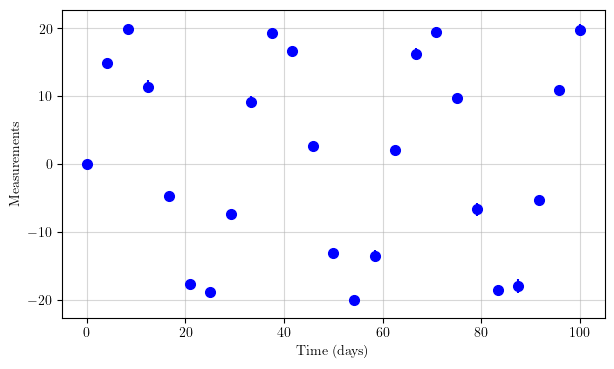
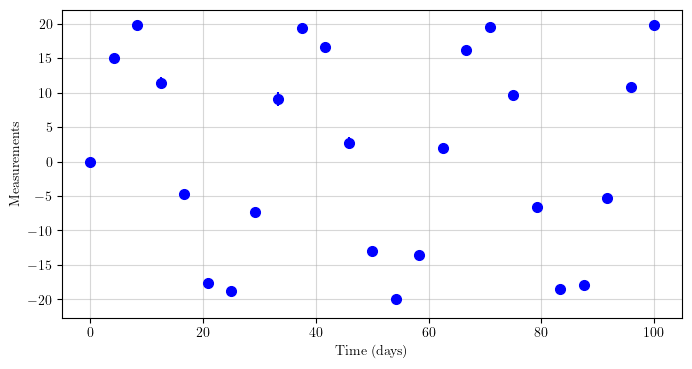
fully working predictive

diff --git a/gpyrn/meanfield.py b/gpyrn/meanfield.py
@@ -583,7 +583,7 @@ class inference(object):
     
     
     def Prediction(self, node, weights, means, jitters, tstar, mu, var,
-                      separate = False, variance=False):
+                   separate = False):
         """
         Prediction for mean-field inference
         
@@ -605,8 +605,7 @@ class inference(object):
             Variational variances
         separate: bool
             True to return nodes and weights predictives separately
-        var: bool
-            True to return variance, otherwise return an array of zeros
+
         Returns
         -------
         predictives: array
@@ -619,45 +618,39 @@ class inference(object):
         meanVal = np.array(np.array_split(meanVal, self.p))
         y = np.concatenate(self.y) - self._mean(means)
         y = np.array(np.array_split(y, self.p))
-        Kf = np.array([self._tinyNuggetKMatrix(i, self.time) +np.diag(np.squeeze(j)) for i,j in zip(node,varF)])
-        Kfstar = np.array([self._predictKMatrix(i, tstar) for i in node])
-        Kw = np.array([self._tinyNuggetKMatrix(i, self.time) +np.diag(np.squeeze(j)) for i,j in zip(weights,varW)])
-        Kwstar = np.array([self._predictKMatrix(j, tstar) for j in weights])
-        final_fstar, final_wstar, predictives = [], [], []
+        weights = np.array(weights).reshape(self.q, self.p)
+        jitt2 = np.array(jitters)**2
+        nPred, nVar = [], []
+        wPred, wVar = [], []
+        for q in range(self.q):
+            gpObj = _gp.GP(self.time, muF[:,q,:])
+            n,nv = gpObj.prediction(node[q], tstar, muF[:,q,:].reshape(self.N), 
+                                    varF[:,q,:].reshape(self.N))
+            nPred.append(n)
+            nVar.append(nv)
+            for p in range(self.p):
+                gpObj = _gp.GP(self.time, muW[p,q,:])
+                w,wv = gpObj.prediction(weights[q,p], tstar, 
+                                        muW[p,q,:].reshape(self.N), 
+                                        varW[p,q,:].reshape(self.N))
+                wPred.append(w)
+                wVar.append(wv)
+        nPred, nVar = np.array(nPred), np.array(nVar)
+        wPredd = np.array(wPred).reshape(self.q, self.p, tstar.size) 
+        wVarr = np.array(wVar).reshape(self.q, self.p, tstar.size) 
+        predictives = np.zeros((tstar.size, self.p))
+        predictivesVar = np.zeros((tstar.size, self.p))
         for p in range(self.p):
-            Kwcho = cholesky(Kw[p,:,:], overwrite_a=True, lower=False)
-            Kwalpha = cho_solve((Kwcho,False), muW[p,:].reshape(-1), 
-                                overwrite_b=False)
-            KwKwMuw = np.squeeze(Kwstar[p,:,:] @Kwalpha)
-            final_wstar.append(np.squeeze(KwKwMuw))
             for q in range(self.q):
-                #will be a problem if self.q>1
-                Kfcho = cholesky(Kf[q,:,:], overwrite_a=True, lower=False)
-                Kfalpha = cho_solve((Kfcho,False), muF[q,:,:].reshape(-1), 
-                                    overwrite_b=False)
-                KfKfMuf = np.squeeze(Kfstar[q,:,:] @Kfalpha)
-                final_fstar.append(np.squeeze(KfKfMuf))
-            predictives.append(KwKwMuw*KfKfMuf + meanVal[p])
+                predictives[:,p] += nPred[q]*wPredd[q,p]
+                predictivesVar[:,p] += wPredd[q,p]*wPredd[q,p]*nVar[q] \
+                                        + wVarr[q,p]*(nVar[q] +nPred[q]*nPred[q]) \
+                                        + jitt2[p]
+
         if separate:
             predictives = np.array(predictives)
-            sepPredictives = np.squeeze(np.array([final_fstar,final_wstar]))
-            return predictives, sepPredictives, tstar
-        if variance:
-            #Will not work for self.q > 1
-            jitt2 = np.array(jitters)**2
-            gpObj = _gp.GP(self.time, muF[0,0,:])
-            n,nv = gpObj.prediction(node[0], tstar, muF[0,0,:], varF[0,0,:])
-            predictivesVar = []
-            for p in range(self.p):
-                gpObj = _gp.GP(self.time, muW[p,0,:])
-                w,wv = gpObj.prediction(weights[q], tstar, muW[p,0,:], varW[p,0,:])
-                EwEwVf = w*w*nv +wv*(nv+ n*n) + jitt2[p]
-                predictivesVar.append(EwEwVf)
-            predictives = np.array(predictives)
-            predictivesVar = np.array(predictivesVar)
-            return predictives, predictivesVar, tstar
-        predictives = np.array(predictives)
-        predictivesVar = np.zeros_like(predictives)
+            sepPredictives = np.array([nPred,wPred], dtype=object)
+            return predictives, predictivesVar, tstar, sepPredictives
         return predictives, predictivesVar, tstar
     
     

diff --git a/gpyrn/Example/example_2.py b/gpyrn/Example/example_2.py
@@ -1,0 +1,84 @@
+import numpy as np
+import matplotlib
+matplotlib.rcParams.update({
+    "pgf.texsystem": "pdflatex",
+    'font.family': 'serif',
+    'text.usetex': True,
+    'pgf.rcfonts': False})
+import matplotlib.pylab as plt
+plt.close('all')
+plt.rcParams['figure.figsize'] = [8, 4]
+from matplotlib.ticker import AutoMinorLocator
+
+from gpyrn import meanfield
+from gpyrn import covfunc, meanfunc
+
+time = np.linspace(0, 100, 25)
+y1 = 20*np.sin(2*np.pi*time / 31)
+y1err = np.random.rand(25)
+
+y2 = 25*np.sin(2*np.pi*time / 31 + 0.5*np.pi)
+y2err = np.random.rand(25)
+
+
+plt.figure()
+plt.errorbar(time, y1, y1err, fmt='ob', markersize=7, label='y1')
+plt.errorbar(time, y2, y2err, fmt='or', markersize=7, label='y2')
+plt.xlabel('Time (days)')
+plt.ylabel('Measurements')
+plt.legend(loc='upper right', facecolor='white', framealpha=1, edgecolor='black')
+plt.grid(which='major', alpha=0.5)
+plt.savefig('data2.png', bbox_inches='tight')
+plt.close('all')
+
+
+
+############## 2 datasets 
+gprn = meanfield.inference(1, time, y1, y1err, y2, y2err)
+
+nodes = [covfunc.Periodic(1, 31, 0.5)]
+weight = [covfunc.SquaredExponential(20, 5), covfunc.SquaredExponential(25, 10)]
+means = [meanfunc.Constant(0), meanfunc.Constant(0)]
+jitter = [0.5, 0.25]
+
+elbo, m, v = gprn.ELBOcalc(nodes, weight, means, jitter, 
+                           iterations=5000, mu='init', var='init')
+print('ELBO =', elbo)
+
+tstar = np.linspace(time.min(), time.max(), 1000)
+
+a, _, _, bb = gprn.Prediction(nodes, weight, means, jitter, tstar, m, v, separate=True)
+
+fig = plt.figure(constrained_layout=True, figsize=(7, 7))
+axs = fig.subplot_mosaic( [['predictive 1', 'weight 1'],
+                           ['predictive 1', 'node'],
+                           ['predictive 2', 'node'],
+                           ['predictive 2', 'weight 2'],],)
+
+axs['predictive 1'].set(xlabel='', ylabel='y1')
+axs['predictive 1'].errorbar(time, y1, y1err, fmt= '.k')
+axs['predictive 1'].plot(tstar, a[:,0].T, '-r')
+axs['predictive 1'].xaxis.set_minor_locator(AutoMinorLocator(5))
+axs['predictive 1'].yaxis.set_minor_locator(AutoMinorLocator(5))
+axs['predictive 1'].grid(which='major', alpha=0.5)
+axs['predictive 1'].grid(which='minor', alpha=0.2)
+
+axs['predictive 2'].set(xlabel='', ylabel='y2')
+axs['predictive 2'].errorbar(time, y2, y2err, fmt= '.k')
+axs['predictive 2'].plot(tstar, a[:,1].T, '-r')
+axs['predictive 2'].xaxis.set_minor_locator(AutoMinorLocator(5))
+axs['predictive 2'].yaxis.set_minor_locator(AutoMinorLocator(5))
+axs['predictive 2'].grid(which='major', alpha=0.5)
+axs['predictive 2'].grid(which='minor', alpha=0.2)
+
+axs['weight 1'].set(xlabel='', ylabel='y1 weight')
+axs['weight 1'].plot(tstar, bb[1][0].T, '-b')
+
+axs['node'].set(xlabel='', ylabel='Node')
+axs['node'].plot(tstar, bb[0].T, '-b')
+
+axs['weight 2'].set(xlabel='', ylabel='y2 weight')
+axs['weight 2'].plot(tstar, bb[1][1].T, '-b')
+
+fig.savefig('componentsPlots.png', bbox_inches='tight')
+# plt.close('all')

diff --git a/gpyrn/Example/example_3.py b/gpyrn/Example/example_3.py
@@ -1,0 +1,44 @@
+import numpy as np
+import matplotlib
+matplotlib.rcParams.update({
+    "pgf.texsystem": "pdflatex",
+    'font.family': 'serif',
+    'text.usetex': True,
+    'pgf.rcfonts': False})
+import matplotlib.pylab as plt
+plt.close('all')
+
+from gprn import meanField as meanfield
+from gprn import covFunction as covfunc
+from gprn import meanFunction as meanfunc
+
+time = np.linspace(0, 100, 25)
+y1 = 20*np.sin(2*np.pi*time / 31)
+y1err = np.random.rand(25)
+
+plt.figure()
+plt.errorbar(time, y1, y1err, fmt='ob', markersize=7, label='y1')
+plt.xlabel('Time (days)')
+plt.ylabel('Measurements')
+plt.legend(loc='upper right', facecolor='white', framealpha=1, edgecolor='black')
+plt.grid(which='major', alpha=0.5)
+# plt.savefig('data2.png', bbox_inches='tight')
+# plt.close('all')
+
+gprn = meanfield.inference(2, time, y1, y1err)
+
+nodes = [covfunc.Periodic(1, 11, 0.5),  covfunc.SquaredExponential(0.1, 10)]
+weight = [covfunc.SquaredExponential(20, 5), covfunc.SquaredExponential(0.1, 1)]
+means = [meanfunc.Constant(0)]
+jitter = [0.5]
+
+elbo, m, v = gprn.ELBOcalc(nodes, weight, means, jitter, iterations=5000, mu='init', var='init')
+print('ELBO =', elbo)
+
+tstar = np.linspace(time.min(), time.max(), 1000)
+a, b, c = gprn.newPrediction(nodes, weight, means, jitter, tstar, m, v)
+# aa, bb, cc = gprn.Prediction(nodes, weight, means, jitter, tstar, m, v, 
+#                               separate=True)
+plt.figure()
+plt.plot(time, y1,'o')
+plt.plot(tstar, a,'-')

diff --git a/gpyrn/Example/untitled1.py b/gpyrn/Example/untitled1.py
@@ -1,0 +1,43 @@
+import numpy as np
+import matplotlib
+matplotlib.rcParams.update({
+    "pgf.texsystem": "pdflatex",
+    'font.family': 'serif',
+    'text.usetex': True,
+    'pgf.rcfonts': False})
+import matplotlib.pylab as plt
+plt.close('all')
+
+from gprn import meanField as meanfield
+from gprn import covFunction as covfunc
+from gprn import meanFunction as meanfunc
+time = np.linspace(0, 100, 25)
+y1 = 20*np.sin(2*np.pi*time / 31)
+y1err = np.random.rand(25)
+
+plt.figure()
+plt.errorbar(time, y1, y1err, fmt='ob', markersize=7, label='y1')
+plt.xlabel('Time (days)')
+plt.ylabel('Measurements')
+plt.legend(loc='upper right', facecolor='white', framealpha=1, edgecolor='black')
+plt.grid(which='major', alpha=0.5)
+# plt.savefig('data2.png', bbox_inches='tight')
+# plt.close('all')
+
+gprn = meanfield.inference(2, time, y1, y1err)
+
+nodes = [covfunc.Periodic(1, 11, 0.5),  covfunc.SquaredExponential(0.1, 10)]
+weight = [covfunc.SquaredExponential(20, 5), covfunc.SquaredExponential(0.1, 1)]
+means = [meanfunc.Constant(0)]
+jitter = [0.5]
+
+elbo, m, v = gprn.ELBOcalc(nodes, weight, means, jitter, iterations=5000, mu='init', var='init')
+print('ELBO =', elbo)
+
+tstar = np.linspace(time.min(), time.max(), 1000)
+a, b, c = gprn.newPrediction(nodes, weight, means, jitter, tstar, m, v)
+# aa, bb, cc = gprn.Prediction(nodes, weight, means, jitter, tstar, m, v, 
+#                               separate=True)
+plt.figure()
+plt.plot(time, y1,'o')
+plt.plot(tstar, a,'-')

diff --git a/gpyrn/Example/example_1.py b/gpyrn/Example/example_1.py
@@ -7,10 +7,11 @@ matplotlib.rcParams.update({
     'pgf.rcfonts': False})
 import matplotlib.pylab as plt
 plt.close('all')
-plt.rcParams['figure.figsize'] = [7, 4]
+plt.rcParams['figure.figsize'] = [8, 4]
 from matplotlib.ticker import AutoMinorLocator
 
 from gpyrn import meanfield
+from gpyrn import covfunc, meanfunc
 
 time = np.linspace(0, 100, 25)
 y1 = 20*np.sin(2*np.pi*time / 31)
@@ -24,8 +25,8 @@ plt.grid(which='major', alpha=0.5)
 plt.savefig('data.png', bbox_inches='tight')
 plt.close('all')
 
-from gpyrn import covfunc, meanfunc
-############## 1 dataset 
+
+############## 1 dataset - 1 node
 gprn = meanfield.inference(1, time, y1, y1err)
 
 nodes = [covfunc.Periodic(15, 31, 0.5)]
@@ -48,15 +49,15 @@ elbo, m, v = gprn.ELBOcalc(nodes, weight, means, jitter,
 print('ELBO =', elbo)
 
 
-tstar = np.linspace(time.min()-10, time.max()+10, 5000)
+tstar = np.linspace(time.min(), time.max(), 1000)
 mean, _, _ = gprn.Prediction(nodes, weight, means, jitter, tstar, m, v)
 
 plt.figure()
 plt.errorbar(time, y1, y1err, fmt='ob', markersize=7, label='data')
-plt.plot(tstar, mean[0], '--k', linewidth=2, label='predictive')
+plt.plot(tstar, mean, '--k', linewidth=2, label='predictive')
 plt.xlabel('Time (days)')
 plt.ylabel('Measurements')
 plt.legend(loc='upper right', facecolor='white', framealpha=1, edgecolor='black')
 plt.grid(which='major', alpha=0.5)
 plt.savefig('dataAndPrediction.png', bbox_inches='tight')
-plt.close('all')
+# plt.close('all')
